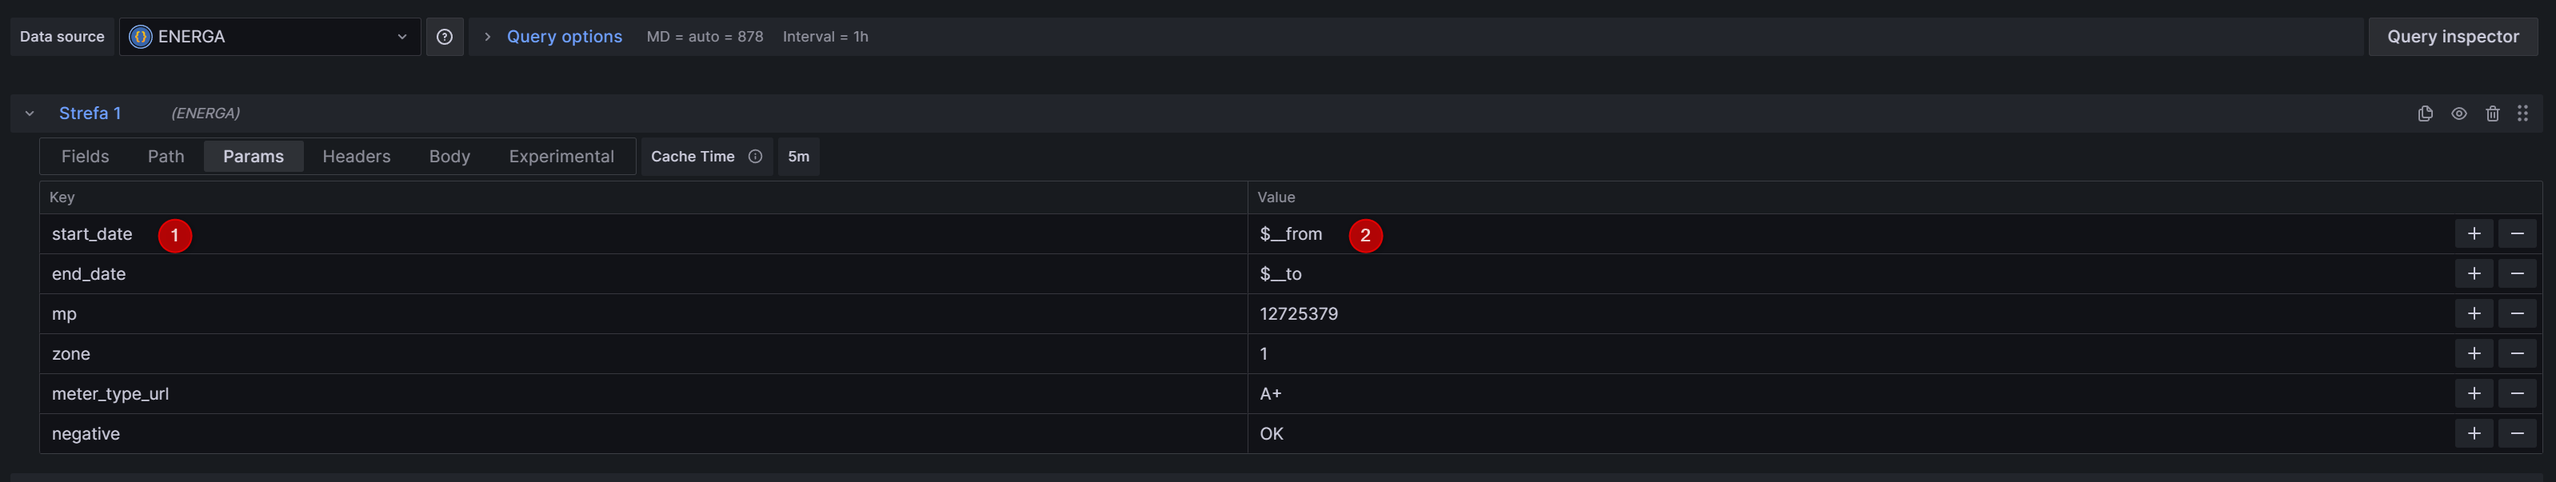
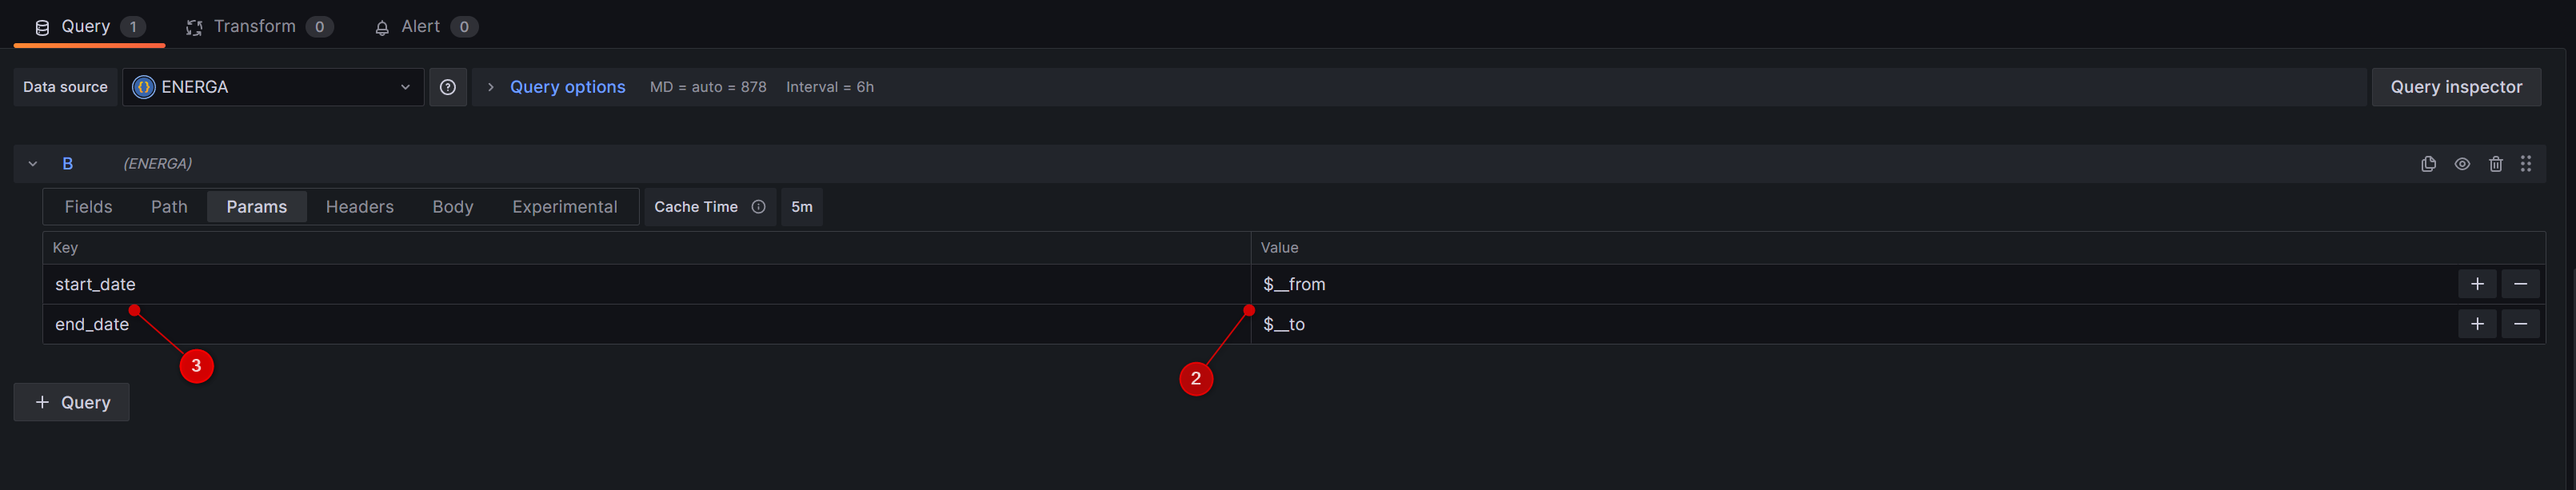
modified:   img/grafana_03.png 	modified:   srcdev/CHANGELOG.md 	modified:   srcdev/INSTALL.md 	modified:   srcdev/config.yaml 	modified:   srcdev/img/grafana_03.png 	new file:   srcdev/img/grafana_08.png 	new file:   srcdev/img/grafana_09.png 	new file:   srcdev/img/grafana_10.png

diff --git a/srcdev/INSTALL.md b/srcdev/INSTALL.md
@@ -118,7 +118,9 @@ Aby pobrać dane z API w formacie JSON należy użyć adresu http://home_assista
 1) Przechodzimy do Dashboards
 2) Klikamy New -> New dashboard -> Add visualization
 3) Wskazujemy Data source: ENERGA
-4) W **Path** wpisujemy: GET: /charts/12335379 (id Twojego licznika)
+4) W **Path** wpisujemy: GET: /charts
+
+ (id Twojego licznika)
 5) W **Fields** wpisujemy \$.charts\[\*\].czas typu Time oraz $.charts[*].value typu number z aliasem kWh
 5) W **Params** wpisujemy Key: start_date Value: $__from
 6) W **Params** wpisujemy Key: end_date Value: $__to
@@ -133,10 +135,23 @@ Aby pobrać dane z API w formacie JSON należy użyć adresu http://home_assista
 
 <img src="img/grafana_05.png" style="width: 80%;" alt="Grafana">
 
+7) W **Params** wpisujemy Key: meter_type_url Value: A+ lub A- jeżeli mamy energię pobieraną i oddawaną, w takim przypadku tworzymy również oddzielne **Query** dla A+ i A-
+
+<img src="img/grafana_07.png" style="width: 80%;" alt="Grafana">
+
+8) W **Params** wpisujemy Key: negative Value: OK (może być dowolna wartość) jeżeli chcemy aby wykres był z wartościami ujemnymi (poniżej osi X)
+
+<img src="img/grafana_08.png" style="width: 80%;" alt="Grafana">
+
+9) W **Params** aby uzyskać bilans energii należy dodać **Transform**, przy czym wartość energii oddawanej powinna być jako energia ujemna (parametr negative)
+
+<img src="img/grafana_09.png" style="width: 80%;" alt="Grafana">
+
+<img src="img/grafana_10.png" style="width: 80%;" alt="Grafana">
 
 ## Znane problemy
-Czasami w aplikacji Mój Licznik włącza się captha (jeżeli masz dużo danych historycznych lub wielokrotnie instalujesz dodatek)
-Dane wytwórcy (energia oddana oraz bilans) nie są dostępne, prace w tym zakresie trwają.
+* Czasami w aplikacji Mój Licznik włącza się captha (jeżeli masz dużo danych historycznych lub wielokrotnie instalujesz dodatek) - należy poczekać kilka godzin, problem rozwiąże się sam
+
 
 ## Uwagi
 Dostęp do aktualnej wersji API nie jest zabezpieczony tokenem

diff --git a/srcdev/CHANGELOG.md b/srcdev/CHANGELOG.md
@@ -1,4 +1,8 @@
 # EnergaMeter (dev)
+## v0.1.8 [2023-11-04]
+- Dodano możliwość odwrócenia znaku wartości pomiaru
+## v0.1.4 - v0.1.7 [2023-11-03]
+- Drobne poprawki
 ## v0.1.3 [2023-10-31]
 - Dodano obsługę liczników wytwórcy (Uwaga: zmiana struktury JSON)
 ## v0.1.2 [2023-10-23]
